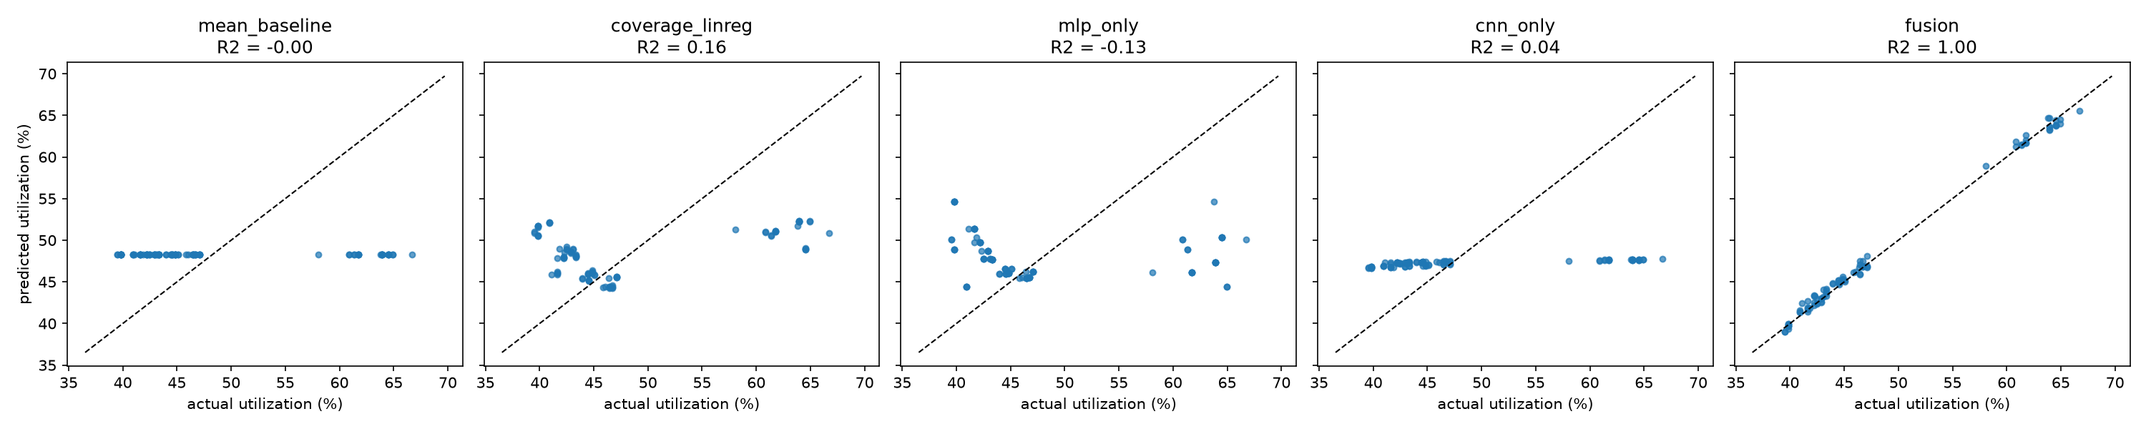
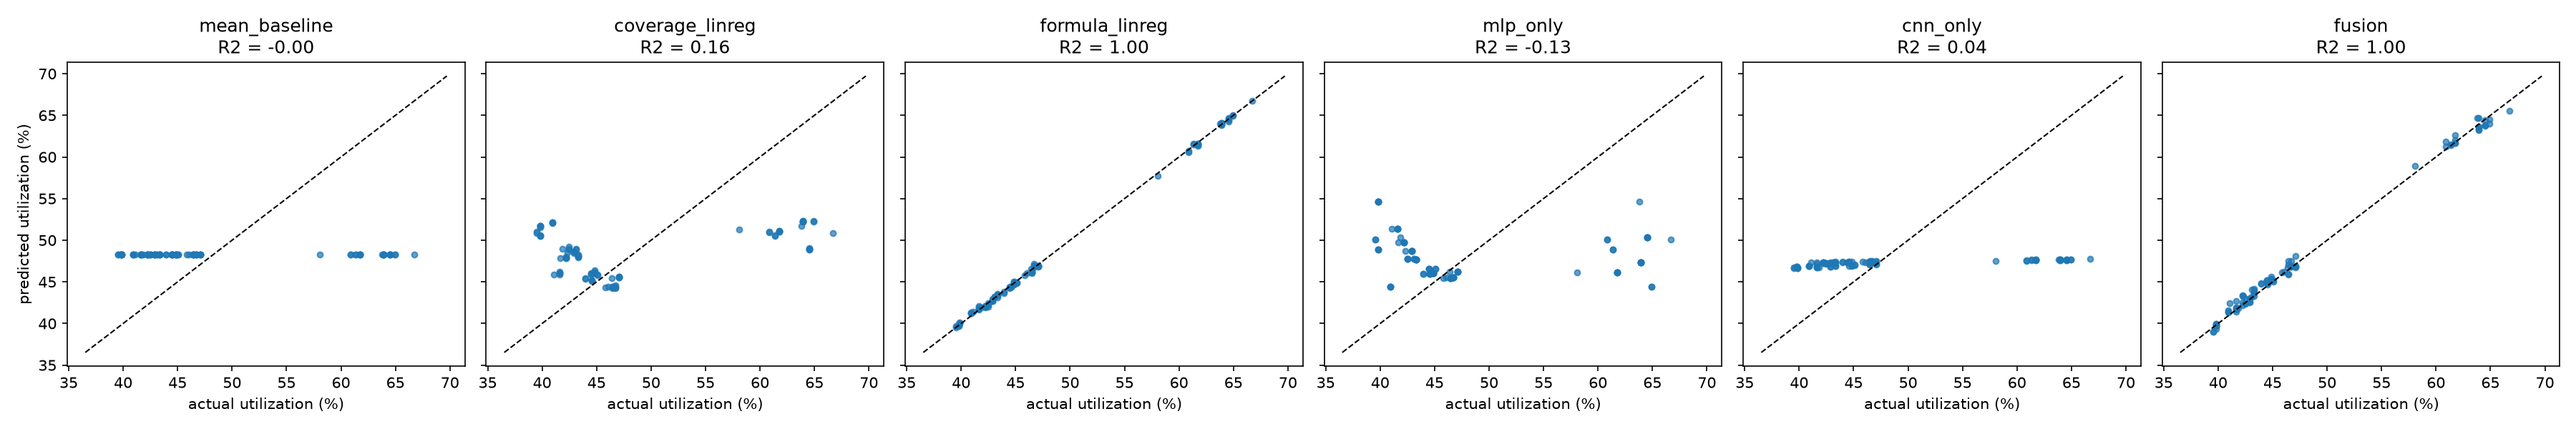
Confirming R^2 not from leakage

diff --git a/src/evaluate.py b/src/evaluate.py
@@ -12,10 +12,11 @@ from sklearn.linear_model import LinearRegression
 from sklearn.metrics import mean_absolute_error, mean_squared_error, r2_score
 from tensorflow import keras
 
-from src.features.preprocess import ARTIFACT_DIR, load_splits, to_pct
+import json
+from src.features.preprocess import ARTIFACT_DIR, PROCESSED_DIR, load_splits, to_pct
 from src.train import REPORT_DIR, inputs_for
 
-ORDER = ["mean_baseline", "coverage_linreg", "mlp_only", "cnn_only", "fusion"]
+ORDER = ["mean_baseline", "coverage_linreg", "formula_linreg", "mlp_only", "cnn_only", "fusion"]
 
 
 def metrics(y_true, y_pred):
@@ -31,6 +32,14 @@ def coverage(split):
     return split["mask"].mean(axis=(1, 2, 3)).reshape(-1, 1)
 
 
+def formula_feature(split, scale, width):
+    """Utilization (%) computed directly from the mask: area / (width x last filled row)."""
+    m = split["mask"][..., 0]
+    area = m.reshape(len(m), -1).sum(axis=1) * scale ** 2
+    last_row = np.array([np.where(x.any(axis=1))[0].max() + 1 for x in m])
+    return (100 * area / (width * last_row * scale)).reshape(-1, 1)
+
+
 def main():
     REPORT_DIR.mkdir(parents=True, exist_ok=True)
     splits, prep = load_splits()
@@ -42,9 +51,17 @@ def main():
         # baseline 1: always predict the training mean
         preds["mean_baseline"][sp] = np.full(len(s["y_pct"]), train["y_pct"].mean())
         # baseline 2: linear regression on mean pixel coverage only
-    lr = LinearRegression().fit(coverage(train), train["y_pct"])
-    for sp in ["val", "test"]:
-        preds["coverage_linreg"][sp] = lr.predict(coverage(splits[sp]))
+        lr = LinearRegression().fit(coverage(train), train["y_pct"])
+        for sp in ["val", "test"]:
+            preds["coverage_linreg"][sp] = lr.predict(coverage(splits[sp]))
+
+        # baseline 3: formula computed from the mask, linearly calibrated on train
+        with open(PROCESSED_DIR / "meta.json") as f:
+            meta = json.load(f)
+        scale, width = meta["cm_per_pixel"], meta["fabric_width_cm"]
+        lr2 = LinearRegression().fit(formula_feature(train, scale, width), train["y_pct"])
+        for sp in ["val", "test"]:
+            preds["formula_linreg"][sp] = lr2.predict(formula_feature(splits[sp], scale, width))
     # neural models
     for name in ["mlp_only", "cnn_only", "fusion"]:
         model = keras.models.load_model(ARTIFACT_DIR / f"{name}.keras")
